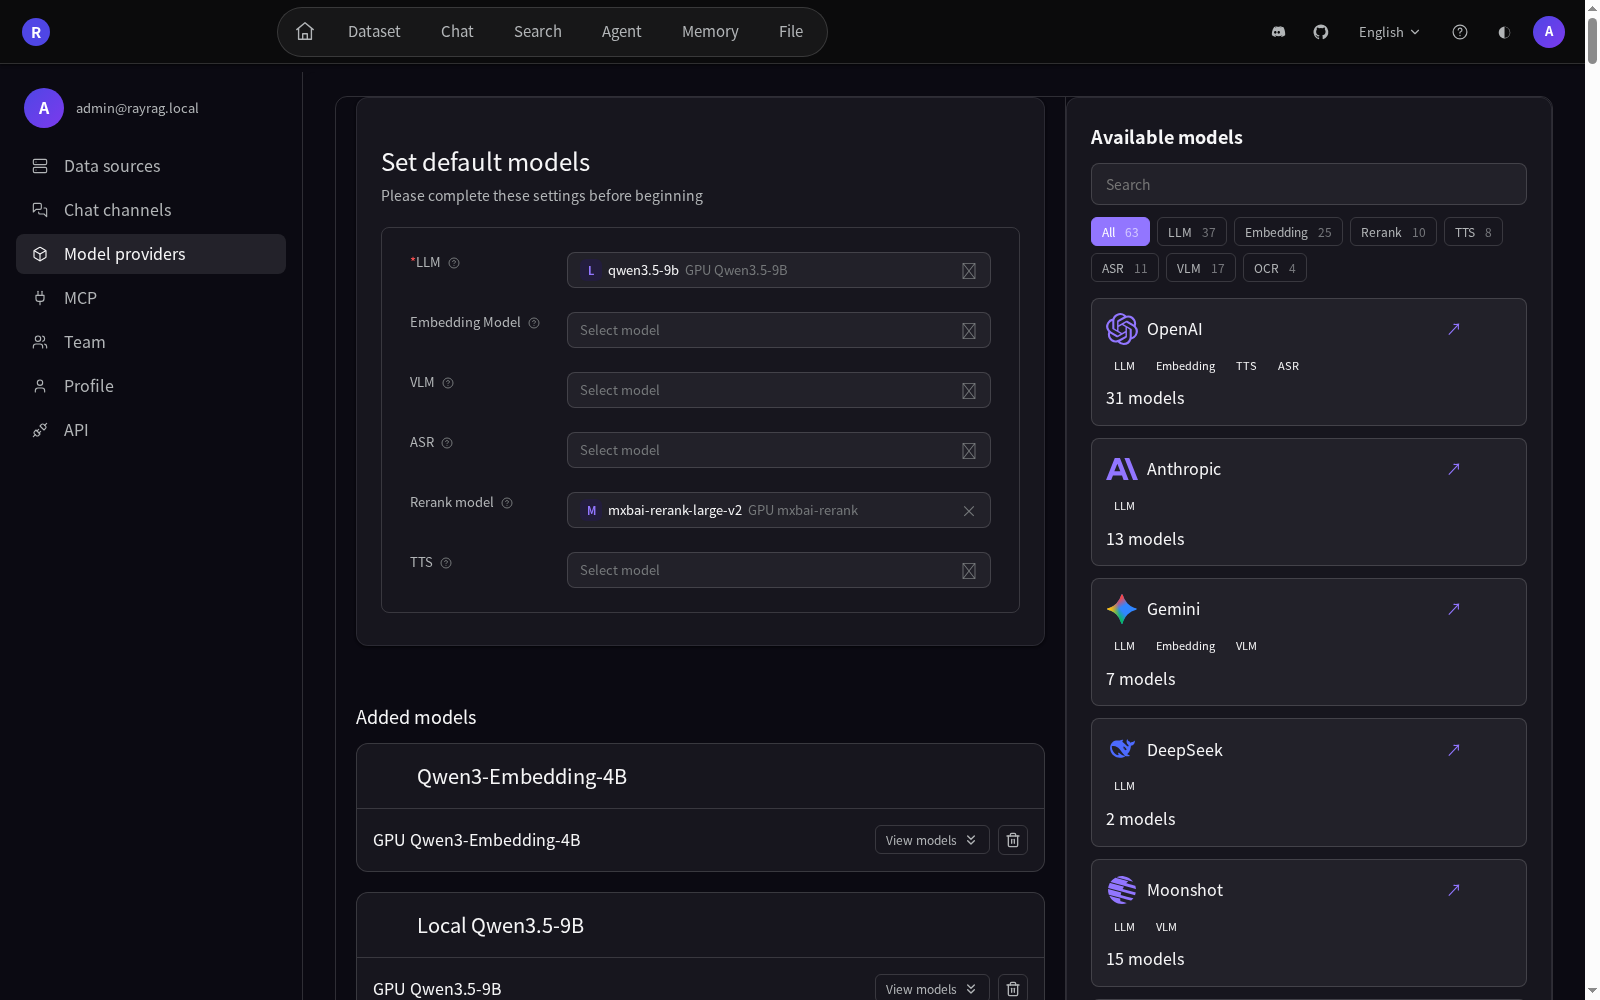
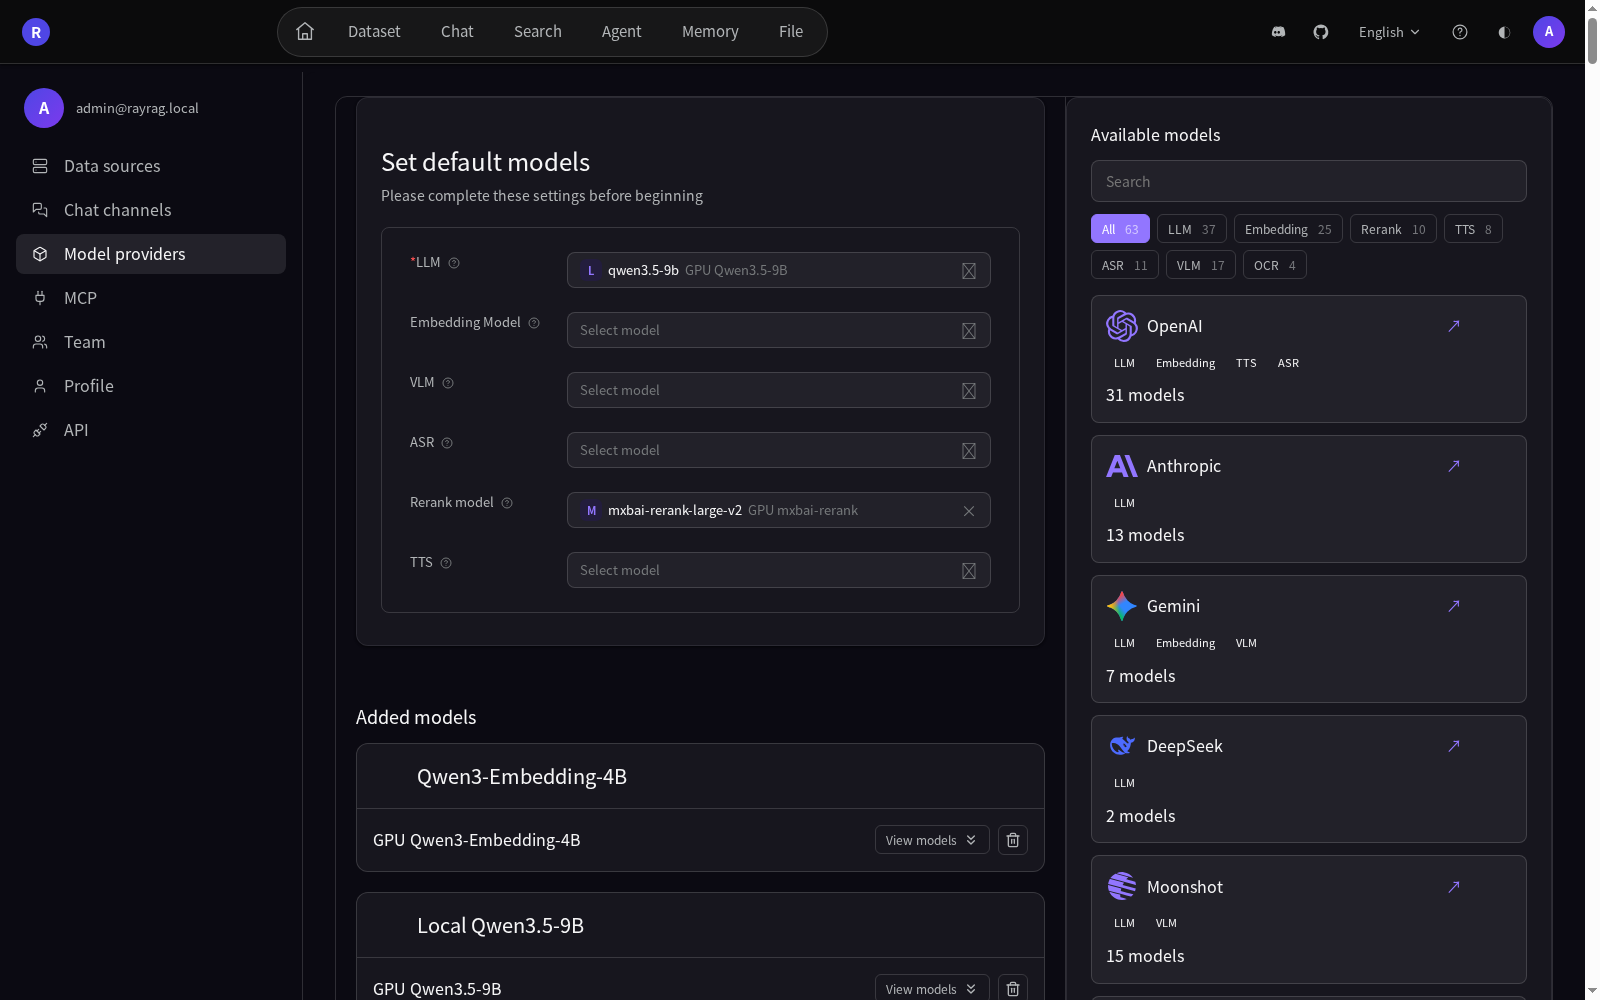
fix(css): scope the Available panel heading above the card heading rule
The CDP probe measured 14px/500 after the first attempt: `.card h3`
(class + element) outranks a single class, so the panel rule needed the
container prefix. Verified 16px/400 on the deployed instance, aside + h3 tags
included.

diff --git a/运维记录.md b/运维记录.md
@@ -38,7 +38,9 @@
 1. **上游事实**：`components/un-add-model.tsx` 的根节点为 `<aside className="text-text-primary h-full flex flex-col" data-testid="available-models-section">`，标题是 `<h3 className="text-text-primary text-base">`（16px、常规字重），下面是搜索框与标签胶囊。RayRAG 此前用 `<section class='card'>` + 无类 `<h2>`（继承 24px 标题样式），元素类型与字号都与上游不同。
 2. **Rust 落地**：`src/web.rs` 的 Available 面板改为 `<aside class='card available-models-panel' id='availableModels' data-testid='available-models-section' aria-label='Available models'>`，标题改为 `<h3 class='available-models-title'>Available models</h3>`，收尾由 `</section>` 改为 `</aside>`；`web_css.txt` 追加 `.available-models-panel{display:flex;flex-direction:column;height:100%}` 与 `.available-models-title{margin:0 0 12px;font-size:16px;font-weight:400;color:var(--t)}`。
 3. **测试**：`providers_page_uses_the_upstream_two_column_layout` 增补 2 条标记断言（aside 开头与 `</aside>` 收尾）；`web::` 90 passed 全绿。
-4. **版本**：0.4.2 → **0.4.3**，`PARITY_SLICE` → `v0.3.7g`。
+4. **CDP 真点（`model-page-layout-cdp.mjs` 扩展）抓到一处 CSS 特效性问题**：新规则 `.available-models-title{font-size:16px}` 被既有的 `.card h3`（class+element，特异性 0,1,1）压过，实测标题仍是 14px/500；改为 `.available-models-panel .available-models-title`（0,2,0）后实测 16px/400。教训：`.card` 这类容器选择器带元素名时优先级高于单类名，新组件样式要按容器作用域写。
+5. **CDP 真点复验**：面板 `tag=ASIDE`、标题 `tag=H3`、`16px/400`，左栏 60% / 右栏 40%，光晕与两栏滚动保持；zh 页面一致；**0 page error**。
+6. **版本**：0.4.2 → **0.4.3**，`PARITY_SLICE` → `v0.3.7g`。
 
 ### 2026-09-19 17:10 CST — v0.3.7f / RayRAG 0.4.2：`/user-setting/model` 页面级两栏布局
 
